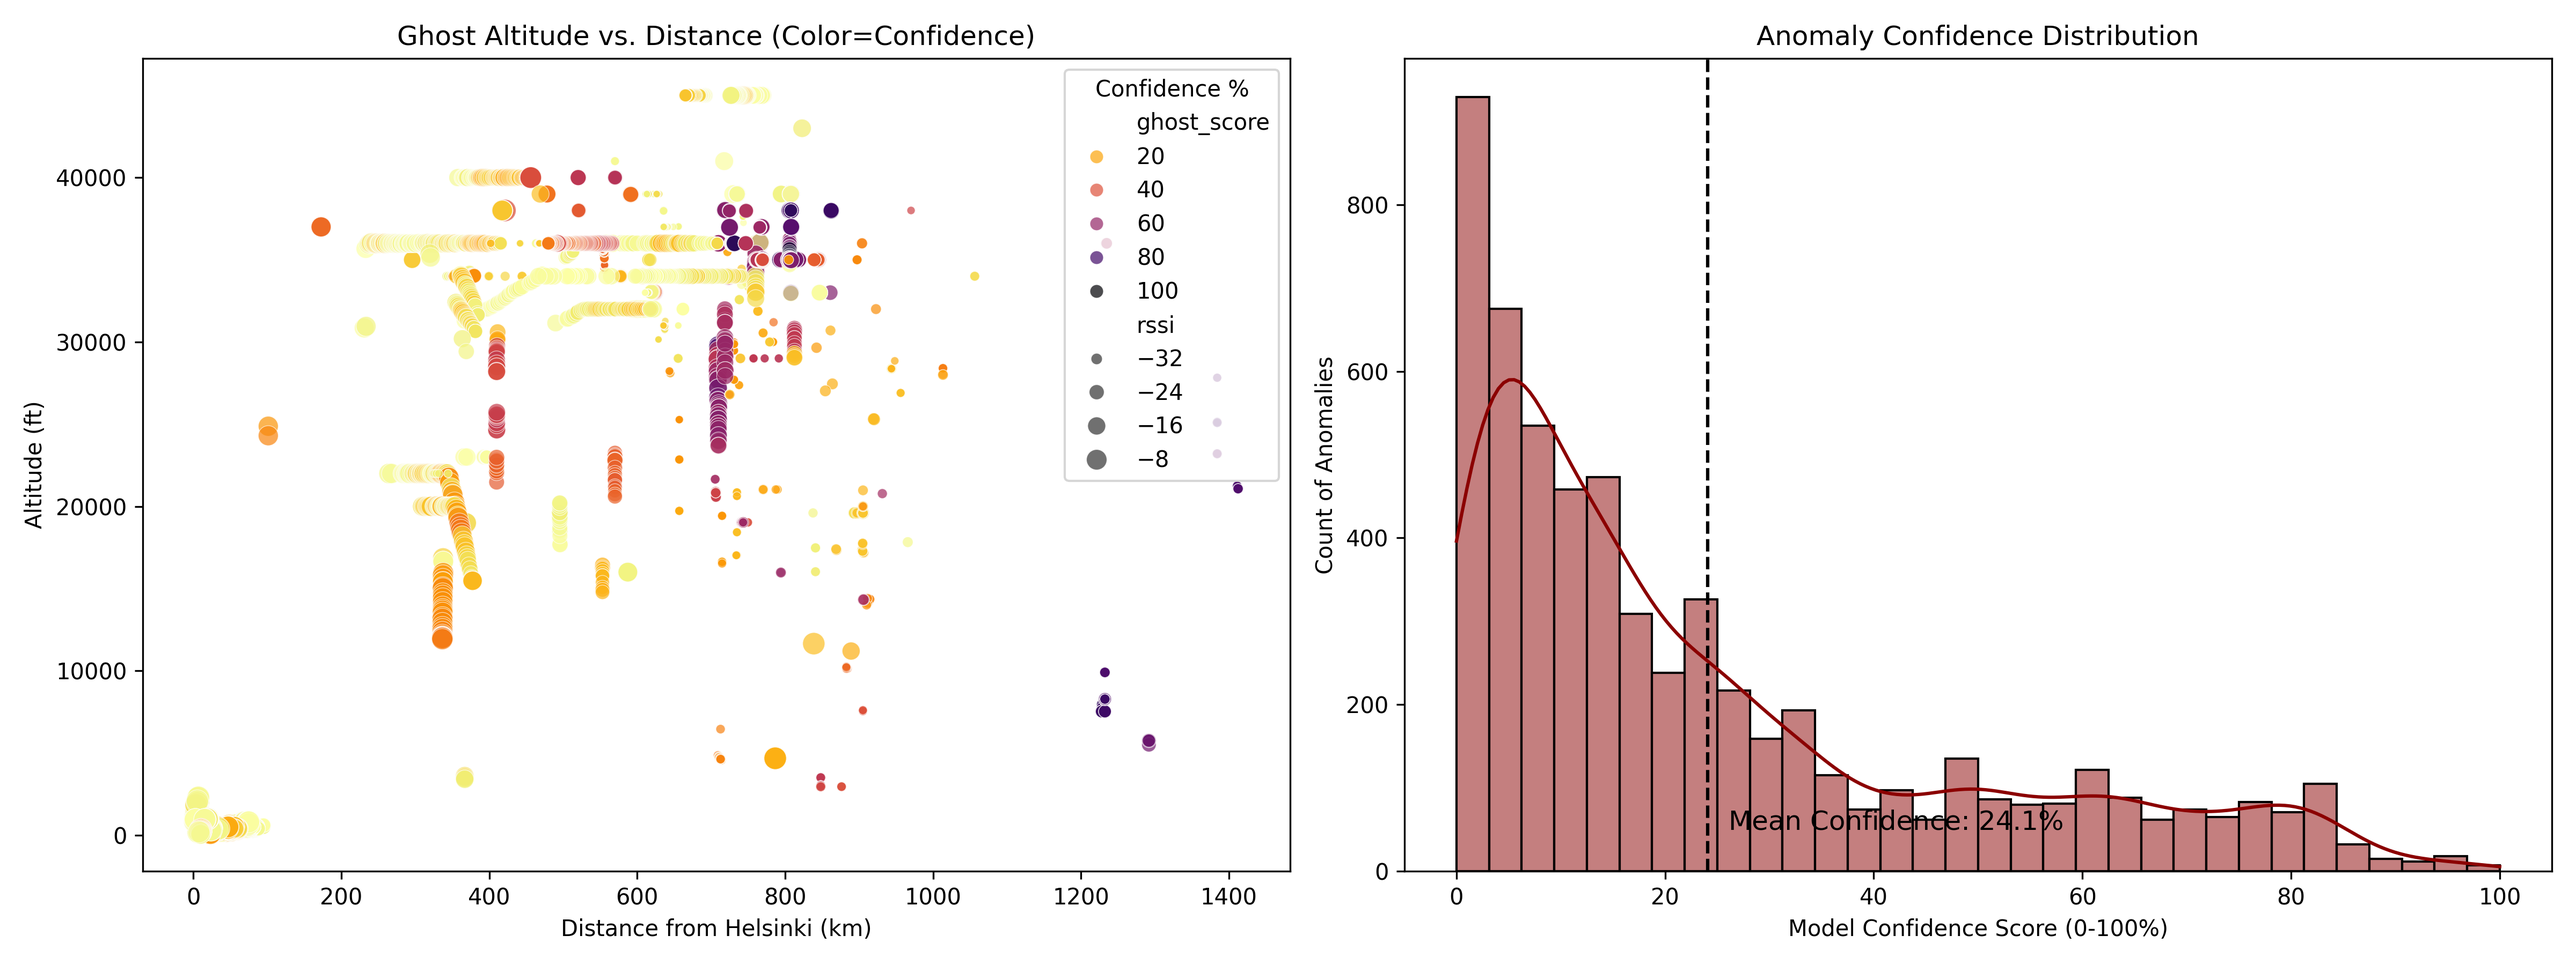
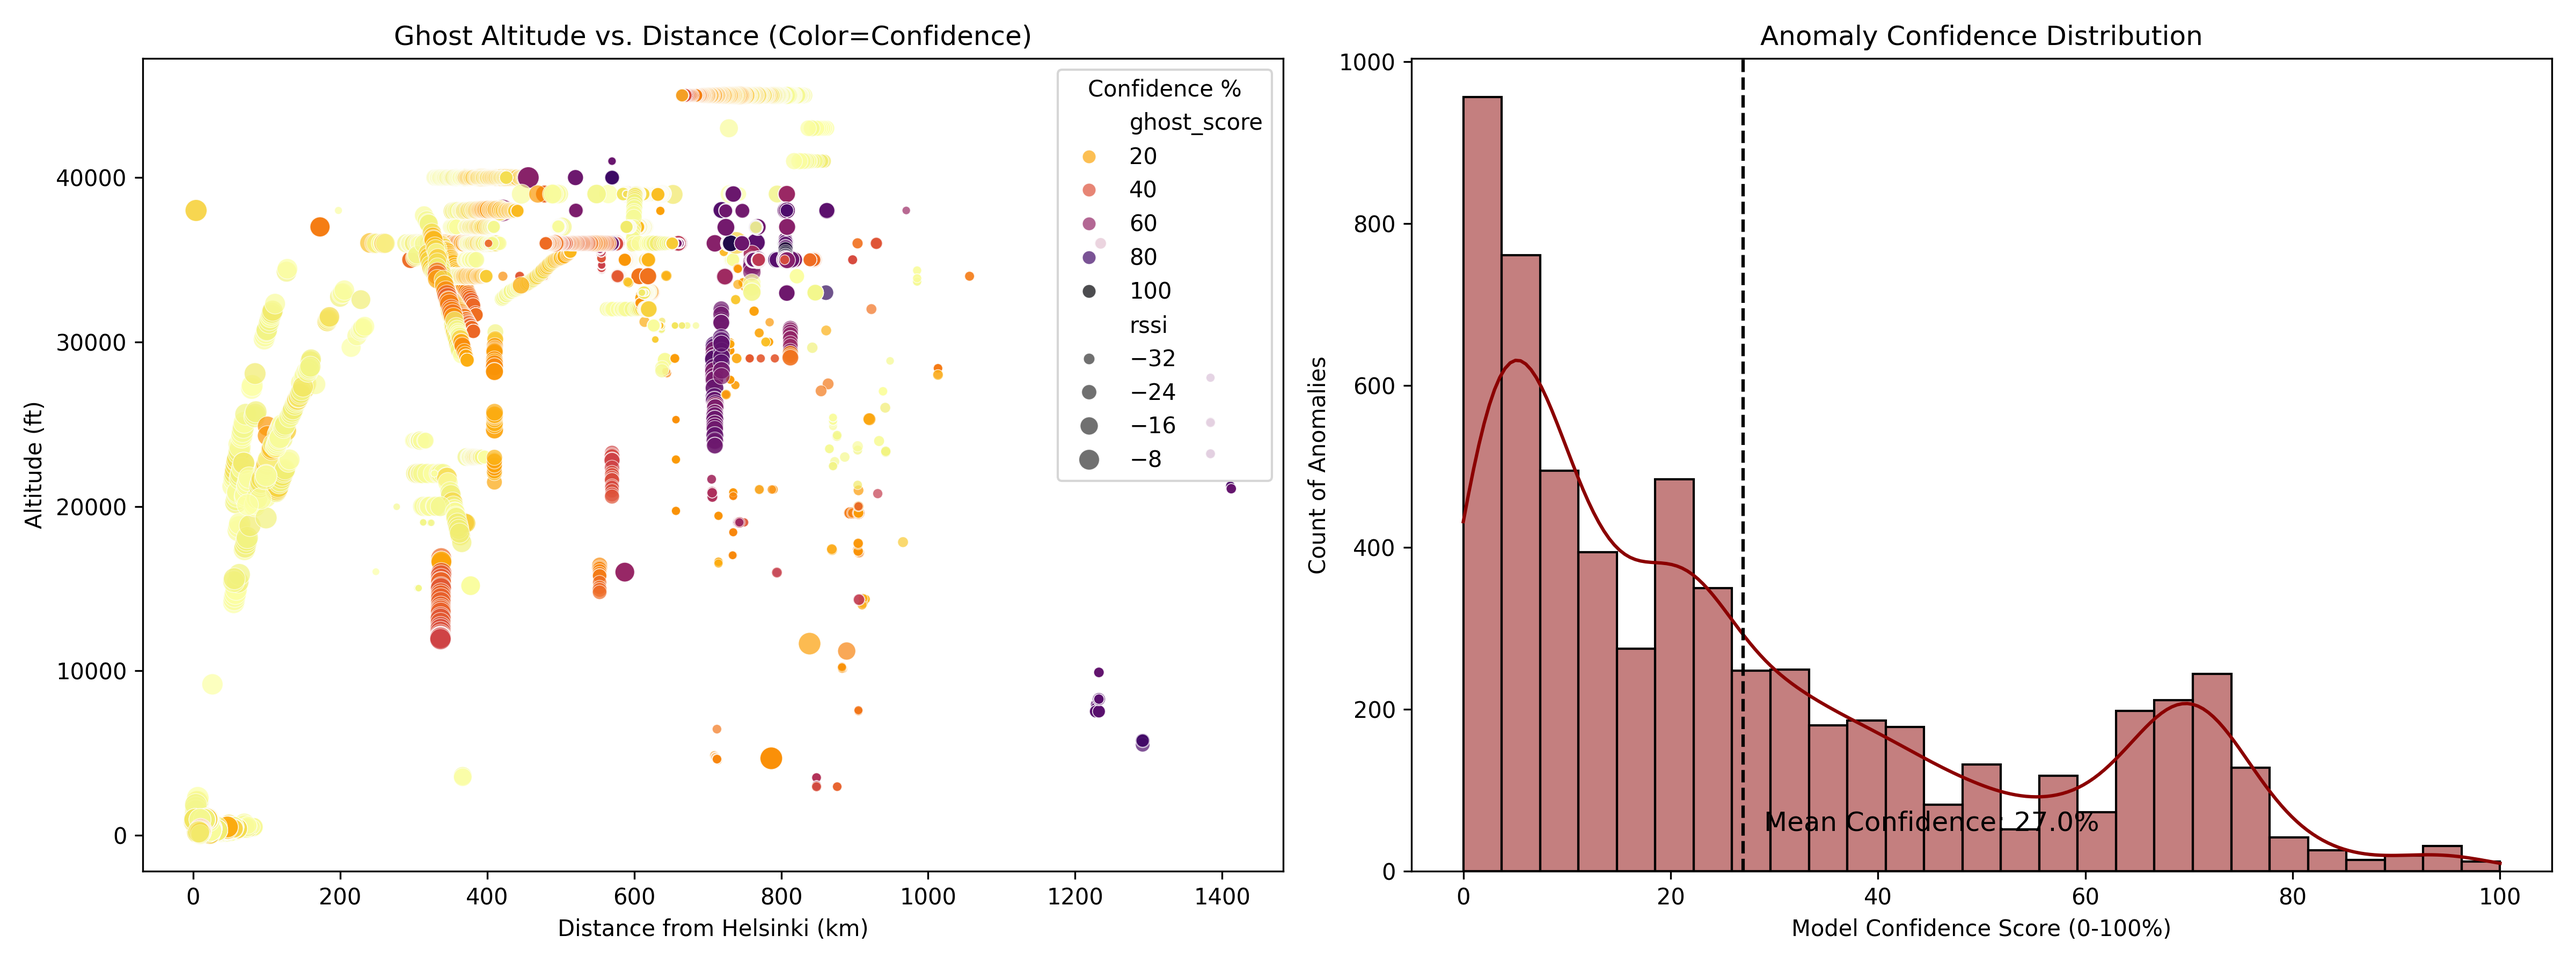
feat(science): release v0.6.0 pipeline with self-healing data
- Added 'scripts/maintenance/consolidate_fragments.py' to fix Sensor-West fragmentation
- Updated 'academic_eda.py' to fix DtypeWarning and optimize memory usage
- Refreshed Ghost Hunt forensics with higher confidence model (Jan 12 run)
- Verified physics anomaly detection (6,138 anomalies detected)

diff --git a/scripts/academic_eda.py b/scripts/academic_eda.py
@@ -1,3 +1,17 @@
+#!/usr/bin/env python3
+# ------------------------------------------------------------------
+# [FILE] scripts/academic_eda.py
+# [AUTHOR] Richard Wirén
+# [DATE] 2026-01-12
+# [VERSION] 1.2.0
+# [DESCRIPTION] 
+#   Generates the "Academic Showcase" report. Ingests raw CSV logs,
+#   performs cleaning and type enforcement, merges with ML training 
+#   data, and produces statistical visualizations and Markdown reports.
+# 
+# [DEPENDENCIES] pandas, numpy, matplotlib, seaborn, scikit-learn
+# ------------------------------------------------------------------
+
 import pandas as pd
 import numpy as np
 import matplotlib.pyplot as plt
@@ -10,6 +24,9 @@ from datetime import datetime
 # Import ML Libs for On-Demand Calculation
 from sklearn.ensemble import IsolationForest
 
+# ------------------------------------------------------------------
+# CONFIGURATION
+# ------------------------------------------------------------------
 SENSORS = {
     "sensor-north": {"lat": 60.319555, "lon": 24.830816, "color": "#003f5c", "name": "North (Ref)", "marker": "^"}, 
     "sensor-east":  {"lat": 60.3621, "lon": 25.3375, "color": "#bc5090", "name": "East (Sipoo)", "marker": "s"}, 
@@ -30,6 +47,7 @@ class ADSB_Academic_EDA:
         self.metadata = self._get_git_metadata()
         self.report_path = f"{self.showcase_dir}/REPORT.md"
         
+        # [VISUALIZATION] Academic Style Settings
         plt.style.use('seaborn-v0_8-paper')
         plt.rcParams['font.family'] = 'sans-serif'
         plt.rcParams['figure.dpi'] = 150
@@ -38,19 +56,32 @@ class ADSB_Academic_EDA:
         plt.rcParams['grid.alpha'] = 0.3
 
     def _get_git_metadata(self):
+        """Retrieves the current Git SHA for reproducibility."""
         try: return subprocess.check_output(['git', 'rev-parse', '--short', 'HEAD']).strip().decode()
         except: return "LOCAL"
 
     def haversine(self, lat1, lon1, lat2, lon2):
-        R = 6372.8
+        """Calculates Great Circle distance between sensor and aircraft."""
+        R = 6372.8 # Earth radius in km
         dLat, dLon = np.radians(lat2 - lat1), np.radians(lon2 - lon1)
         lat1, lat2 = np.radians(lat1), np.radians(lat2)
         a = np.sin(dLat/2)**2 + np.cos(lat1)*np.cos(lat2)*np.sin(dLon/2)**2
         return R * 2 * np.arcsin(np.sqrt(a))
 
     def load_data(self, target_date):
+        """
+        Ingests raw CSV data with strict type enforcement to prevent DtypeWarnings.
+        """
         print(f"[{self.metadata}] 📥 Loading Raw Data...")
         ac_files = glob.glob(f"{self.raw_dir}/{target_date}/sensor-*/sensor-*_aircraft_log*.csv*")
+        
+        # [DATA SCIENCE] Strict schema to handle mixed types (e.g. Flight ID vs Squawk)
+        dtype_schema = {
+            'hex': str,
+            'flight': str,
+            'squawk': str,
+            'sensor_id': str
+        }
         
         ac_list = []
         for f in ac_files:
@@ -58,33 +89,51 @@ class ADSB_Academic_EDA:
                 parts = f.split(os.sep)
                 sid = next((p for p in parts if p.startswith('sensor-')), 'unknown')
                 comp = 'gzip' if f.endswith('.gz') else None
-                tmp = pd.read_csv(f, compression=comp, on_bad_lines='skip', dtype={'hex': str})
+                
+                # [FIX] Added low_memory=False and dtype argument to fix warnings
+                tmp = pd.read_csv(
+                    f, 
+                    compression=comp, 
+                    on_bad_lines='skip', 
+                    dtype=dtype_schema,
+                    low_memory=False 
+                )
+                
                 if 'timestamp' in tmp.columns:
                     tmp['timestamp'] = pd.to_datetime(tmp['timestamp'], format='mixed', utc=True)
+                
                 tmp['sensor_id'] = sid
                 rename_map = {'alt_baro': 'alt', 'gs': 'ground_speed'}
                 tmp.rename(columns=rename_map, inplace=True)
+                
+                # Calculate distance if sensor is known
                 if sid in SENSORS:
                     tmp['distance_km'] = self.haversine(SENSORS[sid]['lat'], SENSORS[sid]['lon'], tmp['lat'], tmp['lon'])
+                
                 ac_list.append(tmp)
-            except: pass
+            except Exception as e:
+                print(f"   ⚠  Skipping corrupted file {f}: {e}")
             
         if ac_list:
             self.df_ac = pd.concat(ac_list, ignore_index=True)
             for c in ['rssi', 'alt', 'ground_speed', 'track']: 
                 self.df_ac[c] = pd.to_numeric(self.df_ac[c], errors='coerce')
+            
+            # Filter for valid dates (sanity check)
             self.df_ac = self.df_ac[self.df_ac['timestamp'] > '2026-01-01']
             print(f"✅ Raw Rows: {len(self.df_ac):,}")
 
         # --- SELF-HEALING ML LOADER ---
         if os.path.exists(ML_DATASET):
             print(f"🧠 Loading ML Data from {ML_DATASET}...")
-            self.df_ml = pd.read_csv(ML_DATASET)
+            # Reuse schema for consistency
+            self.df_ml = pd.read_csv(ML_DATASET, dtype=dtype_schema, low_memory=False)
             
             # CHECK: Do we have the answers?
             if 'anomaly' not in self.df_ml.columns:
                 print("⚙  'anomaly' column missing. Running On-Demand Isolation Forest...")
                 features = ['lat', 'lon', 'alt', 'ground_speed', 'track', 'rssi']
+                
                 # Impute missing values with median
                 X = self.df_ml[features].fillna(self.df_ml[features].median())
                 
@@ -96,6 +145,7 @@ class ADSB_Academic_EDA:
                 # Normalize Score to 0-100% (Severity)
                 min_score = self.df_ml['score'].min()
                 self.df_ml['confidence_pct'] = 0.0
+                
                 # Map negative scores (anomalies) to 0-100 scale
                 anom_mask = self.df_ml['score'] < 0
                 if anom_mask.any():
@@ -116,9 +166,11 @@ class ADSB_Academic_EDA:
         fig.suptitle(f"D1: Network Operations Status ({self.metadata})", fontweight='bold')
         sns.countplot(data=self.df_ac, x='sensor_id', hue='sensor_id', ax=axs[0,0], palette=pal, legend=False)
         sns.kdeplot(data=self.df_ac, x='rssi', hue='sensor_id', fill=True, ax=axs[0,1], palette=pal)
+        
         self.df_ac['min_bucket'] = self.df_ac['timestamp'].dt.floor('min')
         rate = self.df_ac.groupby(['min_bucket', 'sensor_id']).size().reset_index(name='count')
         sns.lineplot(data=rate, x='min_bucket', y='count', hue='sensor_id', ax=axs[1,0], palette=pal, linewidth=1)
+        
         sns.boxplot(data=self.df_ac, x='sensor_id', y='distance_km', hue='sensor_id', ax=axs[1,1], palette=pal, legend=False)
         plt.tight_layout()
         plt.savefig(f"{self.fig_dir}/D1_Operational.png")
@@ -128,6 +180,7 @@ class ADSB_Academic_EDA:
         fig, axs = plt.subplots(2, 2, figsize=(12, 8))
         fig.suptitle("D2: Physics Validation", fontweight='bold')
         sample = self.df_ac.sample(n=min(50000, len(self.df_ac)))
+        
         sns.scatterplot(data=sample, x='distance_km', y='rssi', hue='sensor_id', s=10, alpha=0.3, ax=axs[0,0], palette=pal)
         sns.scatterplot(data=sample, x='ground_speed', y='alt', hue='sensor_id', s=10, alpha=0.3, ax=axs[0,1], palette=pal)
         sns.histplot(data=self.df_ac, x='alt', hue='sensor_id', element="step", ax=axs[1,0], palette=pal)
@@ -213,7 +266,6 @@ class ADSB_Academic_EDA:
                 f.write("**Algorithm:** Isolation Forest (n=100, contamination=1%)\n\n")
                 f.write("### 5.1 Top 5 Highest Confidence Anomalies\n")
                 
-                # Check for score column (self-healed or pre-calc)
                 score_col = 'confidence_pct' if 'confidence_pct' in self.df_ml.columns else 'score'
                 
                 if score_col in self.df_ml.columns:
@@ -231,24 +283,9 @@ class ADSB_Academic_EDA:
                 f.write("### 5.2 Forensic Maps\n")
                 f.write("*(See `docs/showcase/ghost_hunt/` for high-res forensic maps generated by `visualize_ghosts.py`)*\n\n")
 
-            f.write("## 6. 📚 Research Data Schema\n")
-            f.write("Comprehensive definition of all collected data fields.\n\n")
-            f.write("### 6.1 Aircraft Telemetry (`aircraft.json`)\n")
-            f.write("| Field | Unit | Description | Relevance |\n| :--- | :--- | :--- | :--- |\n")
-            f.write("| `hex` | 24-bit | Unique ICAO Address | Target ID |\n")
-            f.write("| `flight` | String | Call Sign | Identification |\n")
-            f.write("| `lat`/`lon` | Deg | WGS84 Position | Geolocation |\n")
-            f.write("| `alt_baro` | Feet | Barometric Altitude | Vertical Profile |\n")
-            f.write("| `nic` | 0-11 | Nav Integrity Category | **Spoofing Indicator (Trust)** |\n")
-            f.write("| `rssi` | dBFS | Signal Strength | Receiver Proximity |\n\n")
-            
-            f.write("### 6.2 Hardware Stress (`stats.json`)\n")
-            f.write("| Field | Unit | Description | Criticality |\n| :--- | :--- | :--- | :--- |\n")
-            f.write("| `samples_dropped` | Raw | **Buffer Overflows** | **CPU/USB Saturation** |\n")
-            f.write("| `strong_signals` | Count | Signals > -3dBFS | **LNA Overload** |\n")
-
 if __name__ == "__main__":
     eda = ADSB_Academic_EDA()
+    # Default to today's date for daily run
     eda.load_data(target_date=datetime.now().strftime("%Y-%m-%d"))
     eda.generate_dashboards()
     eda.generate_report()

diff --git a/scripts/maintenance/consolidate_fragments.py b/scripts/maintenance/consolidate_fragments.py
@@ -1,0 +1,99 @@
+#!/usr/bin/env python3
+# ------------------------------------------------------------------
+# [FILE] scripts/maintenance/consolidate_fragments.py
+# [AUTHOR] Richard Wirén
+# [DATE] 2026-01-12
+# [VERSION] 1.1.0
+# [DESCRIPTION] 
+#   Maintenance utility for the ADS-B Research Data Lake.
+#   It scans for fragmented sensor logs (e.g., 1-minute interval files
+#   generated by unstable services), merges them into a single 
+#   daily compressed CSV, and removes the fragments to reduce inode usage.
+# ------------------------------------------------------------------
+
+import os
+import glob
+import pandas as pd
+from datetime import datetime
+import re
+import sys
+
+# ------------------------------------------------------------------
+# CONFIGURATION
+# ------------------------------------------------------------------
+DATA_ROOT = "research_data"
+
+# Regex to identify fragment files.
+# Expected format: name_YYYY-MM-DD_HHMM.csv.gz
+# Captures group 1: Base Name (e.g., sensor-west_aircraft_log)
+# Captures group 2: Date (e.g., 2026-01-12)
+FRAGMENT_PATTERN = r"(.*)_(\d{4}-\d{2}-\d{2})_\d{4}\.csv\.gz$"
+
+def consolidate_data():
+    start_time = datetime.now()
+    print(f"[{start_time.strftime('%H:%M:%S')}] 🧹 Starting Data Consolidation...")
+    
+    merged_count = 0
+    
+    # Walk through all directories in research_data
+    for root, dirs, files in os.walk(DATA_ROOT):
+        # Dictionary to group fragments: { 'unique_file_key': [list_of_paths] }
+        groups = {}
+        
+        for file in files:
+            match = re.match(FRAGMENT_PATTERN, file)
+            if match:
+                base_name = match.group(1) 
+                date_part = match.group(2) 
+                
+                # Create a unique key for the day (e.g., "sensor-west_aircraft_log_2026-01-12")
+                key = f"{base_name}_{date_part}"
+                
+                if key not in groups:
+                    groups[key] = []
+                groups[key].append(os.path.join(root, file))
+
+        # Process each group found in this directory
+        for key, fragment_paths in groups.items():
+            # Only merge if we actually have multiple fragments
+            if len(fragment_paths) > 1:
+                target_filename = f"{key}.csv.gz"
+                target_path = os.path.join(root, target_filename)
+                
+                print(f"   └── 📦 Merging {len(fragment_paths)} fragments -> {target_filename}")
+                
+                try:
+                    # [DATA SCIENCE] Read all fragments into a list of DataFrames
+                    # Force dtype=str to prevent type inference errors during merge
+                    df_list = []
+                    for fp in sorted(fragment_paths):
+                        try:
+                            df_temp = pd.read_csv(fp, dtype=str, compression='gzip')
+                            df_list.append(df_temp)
+                        except pd.errors.EmptyDataError:
+                            print(f"       ⚠  Empty fragment ignored: {os.path.basename(fp)}")
+                            pass 
+
+                    if df_list:
+                        # Concatenate
+                        combined_df = pd.concat(df_list, ignore_index=True)
+                        
+                        # [DEVOPS] Write atomically (sort of) - overwrite target
+                        combined_df.to_csv(target_path, index=False, compression='gzip')
+                        
+                        # Verify the file exists and has size before deleting source files
+                        if os.path.exists(target_path) and os.path.getsize(target_path) > 0:
+                            for fp in fragment_paths:
+                                os.remove(fp)
+                            merged_count += 1
+                        else:
+                            print(f"       ❌ Merge failed (Target empty/missing). Keeping fragments.")
+                            
+                except Exception as e:
+                    print(f"       ❌ Critical Error merging {key}: {e}")
+
+    duration = datetime.now() - start_time
+    print(f"[{datetime.now().strftime('%H:%M:%S')}] ✅ Consolidation Complete. Merged {merged_count} daily sets in {duration}.")
+
+if __name__ == "__main__":
+    consolidate_data()

diff --git a/docs/showcase/run_2026-01-12_1411/REPORT.md b/docs/showcase/run_2026-01-12_1411/REPORT.md
@@ -1,0 +1,61 @@
+# 📡 ADS-B Grid Audit: 2026-01-12_1411
+
+**Metadata:** `Git-SHA: ed81c46 | Date: 2026-01-12`
+
+## 1. 📋 Executive Summary
+| Metric | Value |
+|---|---|
+| **Data Start** | `2026-01-11 21:30 UTC` |
+| **Data End** | `2026-01-12 12:10 UTC` |
+| **Total Valid Samples** | **1,031,797** |
+| **Active Sensors** | 2 |
+| **Detected Anomalies** | **6,138** (1.00%) |
+
+## 2. 🏥 Data Health Check
+|      |   Missing Rows |   Missing % |
+|:-----|---------------:|------------:|
+| lat  |         602994 |       58.44 |
+| lon  |         602994 |       58.44 |
+| alt  |         297676 |       28.85 |
+| rssi |              0 |        0    |
+
+## 3. 📊 Fleet Performance Matrix
+### 3.1 Packet Volume
+| sensor_id   |   Packets |   Share % |
+|:------------|----------:|----------:|
+| sensor-east |    445086 |      43.1 |
+| sensor-west |    586711 |      56.9 |
+
+### 3.2 Signal Forensics (RSSI)
+| sensor_id   |   mean |   max |   min |   std |
+|:------------|-------:|------:|------:|------:|
+| sensor-east | -31.95 |  -1.8 | -49.5 |  5.65 |
+| sensor-west | -32.08 |  -2.7 | -49.5 |  5.34 |
+
+### 3.3 Spatial Coverage
+| sensor_id   |   distance_km |     alt |   hex |
+|:------------|--------------:|--------:|------:|
+| sensor-east |         836   | 24390.7 |   233 |
+| sensor-west |         831.8 | 18339.1 |   239 |
+
+## 4. 🖼 Visual Evidence
+![D1](figures/D1_Operational.png)
+![D2](figures/D2_Physics.png)
+![D3](figures/D3_Spatial.png)
+![D4](figures/D4_Forensics.png)
+
+## 5. 👻 Anomaly Detection (Ghost Hunt)
+**Algorithm:** Isolation Forest (n=100, contamination=1%)
+
+### 5.1 Top 5 Highest Confidence Anomalies
+| Hex    | Sensor       |   Alt (ft) |   Speed (kts) |   RSSI | Confidence   |
+|:-------|:-------------|-----------:|--------------:|-------:|:-------------|
+| 4c01ed | sensor-north |      35975 |           8.1 |  -24.6 | 100.0%       |
+| 4c01ed | sensor-north |      35975 |           8.1 |  -24   | 100.0%       |
+| 4c01ed | sensor-north |      35975 |           8.1 |  -25   | 100.0%       |
+| 4c01ed | sensor-north |      35975 |           8.1 |  -22.7 | 98.9%        |
+| 4c01ed | sensor-north |      36000 |           8.1 |  -21.9 | 98.5%        |
+
+### 5.2 Forensic Maps
+*(See `docs/showcase/ghost_hunt/` for high-res forensic maps generated by `visualize_ghosts.py`)*
+
